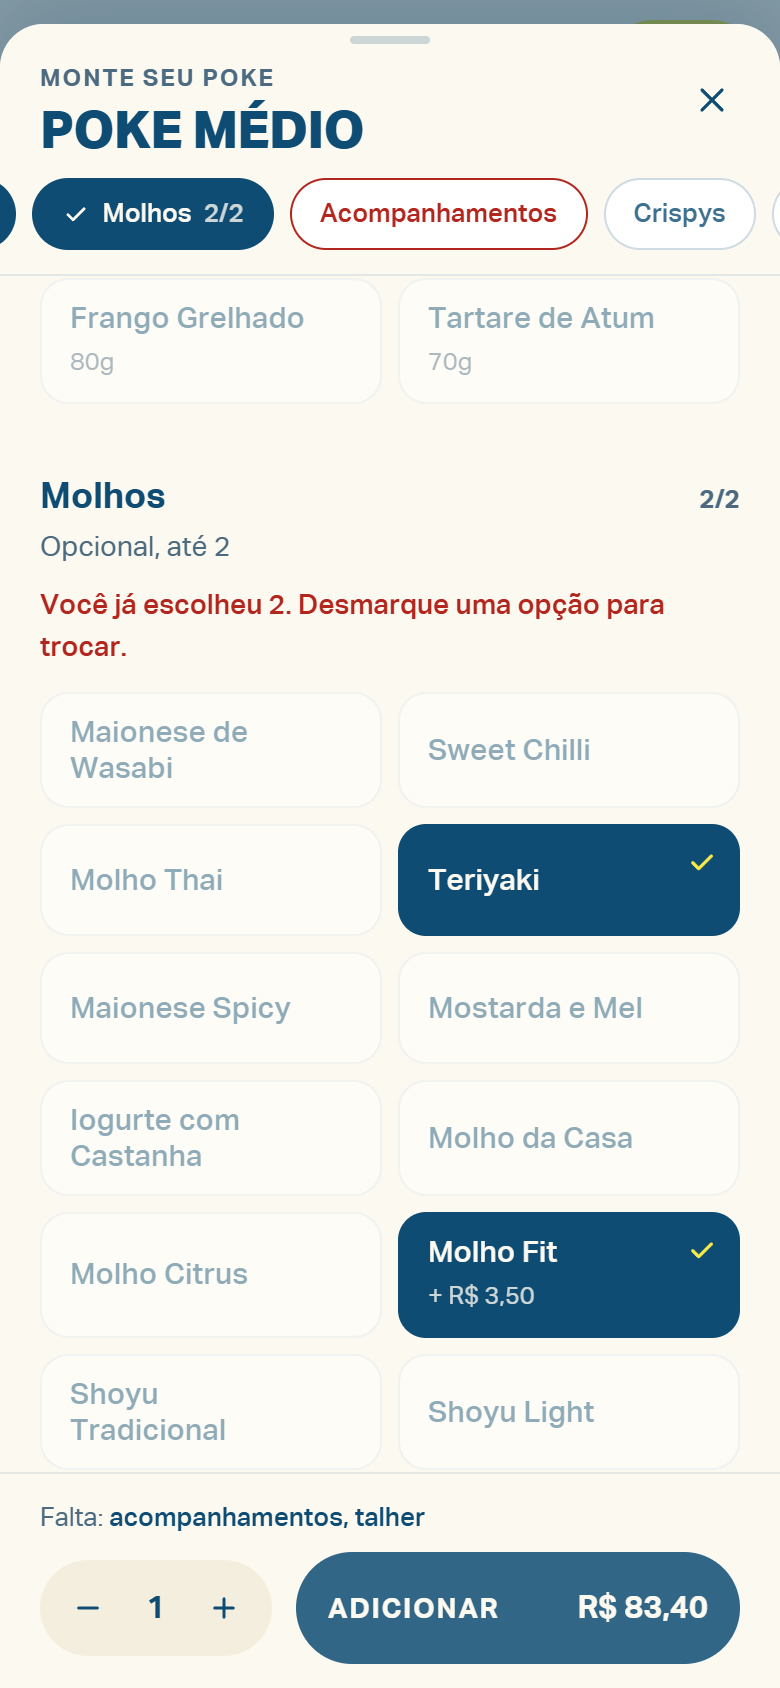
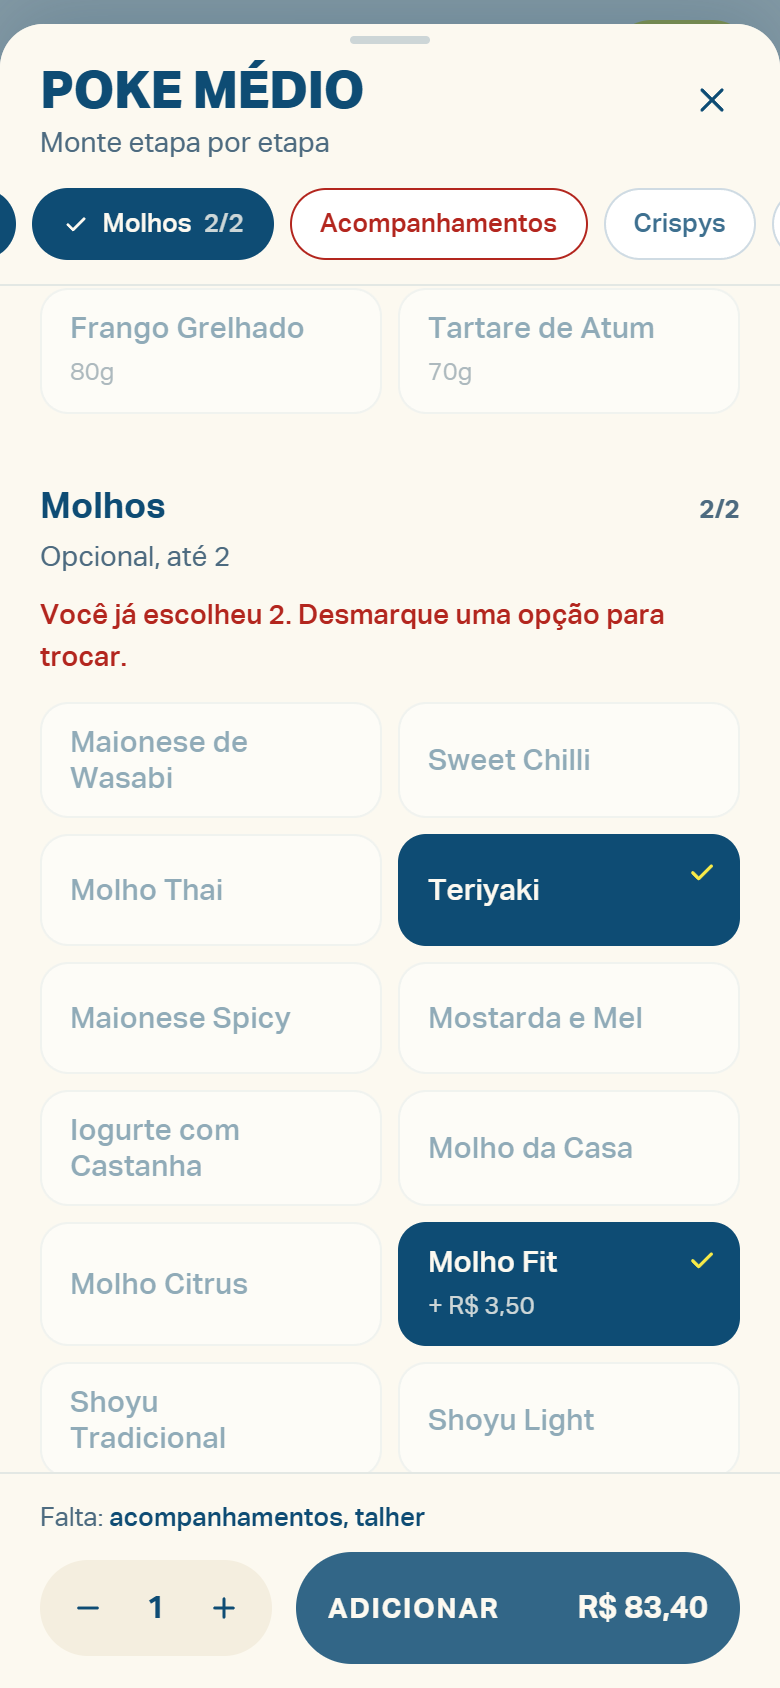
v4: sem etiqueta acima dos titulos, icone no + dos extras, contraste do texto pequeno no hero e no salvia, cursor e barra de rolagem da marca
Claude-Session: https://claude.ai/code/session_01AZSvBY1jk2PbgVGk1gwXp3

diff --git a/src/components/pedido/Montagem.tsx b/src/components/pedido/Montagem.tsx
@@ -21,7 +21,7 @@ import { formatarPreco } from "@/lib/whatsapp";
 import { fotoSrc } from "@/lib/fotos";
 import { Painel } from "@/components/ui/Painel";
 import { Contador } from "@/components/ui/Contador";
-import { IconeCheck, IconeFechar } from "@/components/ui/Icones";
+import { IconeCheck, IconeFechar, IconeMais } from "@/components/ui/Icones";
 
 const FOTO_TAMANHO: Record<Tamanho, string> = { P: "poke-pequeno", M: "poke-medio", G: "poke-grande" };
 
@@ -237,8 +237,8 @@ function CorpoMontagem({
         <div className="mx-auto w-full flex items-start gap-3 px-5 pt-3 md:pt-6">
           <div className="md:hidden absolute left-1/2 top-1.5 -translate-x-1/2 w-10 h-1 rounded-full bg-petroleo/20" aria-hidden />
           <div className="flex-1 min-w-0 pt-2">
-            <p className="rotulo text-tinta-suave">{porTamanho ? "Monte seu poke" : "Receita da casa"}</p>
-            <h2 className="titulo text-[26px] md:text-[34px] mt-1.5">{config.nome}</h2>
+            <h2 className="titulo text-[26px] md:text-[34px]">{config.nome}</h2>
+            <p className="mt-1 text-[14px] text-tinta-suave">{porTamanho ? "Monte etapa por etapa" : "Receita da casa"}</p>
           </div>
           <button
             type="button"
@@ -411,10 +411,10 @@ function CorpoMontagem({
                             <button
                               type="button"
                               onClick={() => mudarQuantidade(e, o.id, 1)}
-                              className="grid place-items-center w-11 h-11 rounded-full bg-creme-2 text-[22px] leading-none"
+                              className="grid place-items-center w-11 h-11 rounded-full bg-creme-2"
                               aria-label={`Adicionar ${o.nome}`}
                             >
-                              +
+                              <IconeMais />
                             </button>
                           )}
                         </li>

diff --git a/src/components/home/Hero.tsx b/src/components/home/Hero.tsx
@@ -19,7 +19,7 @@ export function Hero() {
 
   return (
     <section
-      className="relative overflow-hidden bg-[#2c7ca0] text-creme h-[calc(100svh-var(--altura-topo)-44px)] min-h-[600px] max-h-[900px] lg:h-[calc(100svh-var(--altura-topo)-52px)] lg:min-h-[580px] lg:max-h-[860px]"
+      className="relative overflow-hidden bg-[#246e92] text-creme h-[calc(100svh-var(--altura-topo)-44px)] min-h-[600px] max-h-[900px] lg:h-[calc(100svh-var(--altura-topo)-52px)] lg:min-h-[580px] lg:max-h-[860px]"
       aria-labelledby="titulo-hero"
     >
       <picture>
@@ -42,14 +42,9 @@ export function Hero() {
       </picture>
 
       <div className="relative h-full mx-auto max-w-[1240px] px-5 md:px-8 pt-9 pb-8 md:pt-14 lg:pt-0 lg:pb-16 flex flex-col lg:justify-end">
-        <p className="rotulo text-creme/85 entrar" style={{ "--atraso": "80ms" } as React.CSSProperties}>
-          <span className="hidden md:inline">{LOJA.nome} · </span>
-          {LOJA.local}
-        </p>
-
         <h1
           id="titulo-hero"
-          className="titulo mt-3 text-[clamp(56px,16.5vw,72px)] md:text-[clamp(80px,8.2vw,120px)] leading-[0.88] entrar"
+          className="titulo text-[clamp(56px,16.5vw,72px)] md:text-[clamp(80px,8.2vw,120px)] leading-[0.88] entrar"
           style={{ "--atraso": "160ms" } as React.CSSProperties}
         >
           Monte
@@ -78,10 +73,11 @@ export function Hero() {
         </div>
 
         <p
-          className="hidden lg:block mt-5 text-[14px] font-medium text-creme/90 min-h-5 entrar"
+          className="hidden md:block mt-5 text-[15px] font-medium text-creme min-h-5 entrar"
           style={{ "--atraso": "680ms" } as React.CSSProperties}
         >
-          {status ?? " "}
+          {LOJA.local}
+          {status ? ` · ${status}` : ""}
         </p>
       </div>
     </section>

diff --git a/src/components/home/Cardapio.tsx b/src/components/home/Cardapio.tsx
@@ -41,7 +41,7 @@ function Foto({ item, categoria }: { item: ItemCardapio; categoria: string }) {
   const cor = PASTEL[categoria];
   return (
     <div
-      className={`relative overflow-hidden ${cor} shrink-0 w-[96px] h-[96px] rounded-[14px] sm:w-full sm:h-auto sm:aspect-square sm:rounded-[18px]`}
+      className={`relative overflow-hidden ${cor} shrink-0 w-[96px] h-[96px] rounded-[14px] sm:w-full sm:h-auto sm:aspect-square sm:rounded-[16px]`}
     >
       {!slug ? (
         <Logo className="absolute inset-0 m-auto w-[62%] h-auto text-petroleo/25" titulo="" />

diff --git a/src/components/home/Destaques.tsx b/src/components/home/Destaques.tsx
@@ -63,7 +63,7 @@ export function Destaques() {
             style={{ "--atraso": `${[0, 200, 400][i]}ms` } as React.CSSProperties}
           >
             <div
-              className={`relative overflow-hidden rounded-[18px] ${c.cor} ${
+              className={`relative overflow-hidden rounded-[16px] ${c.cor} ${
                 i === 0 ? "aspect-[16/10] md:aspect-square" : "aspect-square"
               }`}
             >

diff --git a/src/components/home/Horarios.tsx b/src/components/home/Horarios.tsx
@@ -64,7 +64,7 @@ export function Horarios() {
               Instagram
             </a>
           </div>
-          <p className="mt-4 text-[13px] text-tinta-suave">No iFood, o pedido mínimo é de R$ 20,00.</p>
+          <p className="mt-4 text-[13px] text-petroleo/90">No iFood, o pedido mínimo é de R$ 20,00.</p>
         </div>
 
         <img

diff --git a/src/app/globals.css b/src/app/globals.css
@@ -353,6 +353,13 @@ body {
 .painel-rolagem {
   overscroll-behavior: contain;
   -webkit-overflow-scrolling: touch;
+  scrollbar-width: thin;
+  scrollbar-color: rgb(14 76 116 / 0.28) transparent;
+}
+
+input,
+textarea {
+  caret-color: var(--color-azul);
 }
 
 @layer components {

diff --git a/scripts/hero/compor_mesa.py b/scripts/hero/compor_mesa.py
@@ -12,7 +12,7 @@ REC = os.path.join(RAIZ, "public", "images", "recortes")
 OUT = os.path.join(RAIZ, "public", "images", "hero")
 os.makedirs(OUT, exist_ok=True)
 
-MESA = (44, 124, 160)      # azul da marca (círculo do logo, #2A7CA1), um pouco mais claro
+MESA = (36, 110, 146)      # azul da marca (#2A7CA1) um pouco mais escuro: texto creme pequeno passa de 4,5:1
 
 
 def fundo(w, h, cor=MESA):
@@ -26,7 +26,7 @@ def fundo(w, h, cor=MESA):
         rr = int(r * i / 40)
         d.ellipse([cx - rr, cy - rr, cx + rr, cy + rr], fill=int(70 * (1 - i / 40)))
     luz = luz.filter(ImageFilter.GaussianBlur(max(w, h) // 12))
-    clara = Image.new("RGB", (w, h), tuple(min(255, c + 26) for c in cor))
+    clara = Image.new("RGB", (w, h), tuple(min(255, c + 14) for c in cor))
     escura = Image.new("RGB", (w, h), tuple(max(0, c - 22) for c in cor))
     img = Image.composite(clara, escura, luz.point(lambda v: min(255, v * 3)))
     img = Image.blend(base, img, 0.85)
